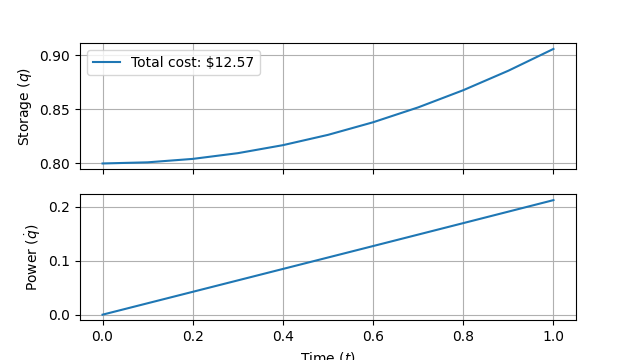
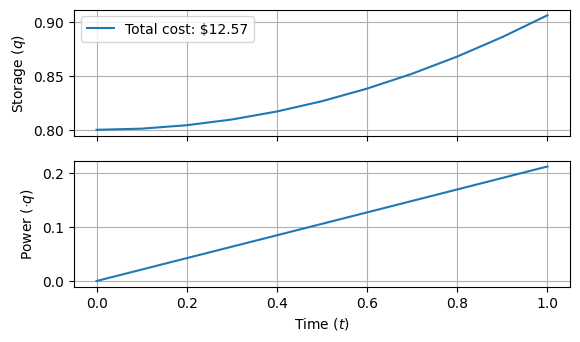
plot tight figure

diff --git a/case_study/table_3.py b/case_study/table_3.py
@@ -38,4 +38,4 @@ with open('table_3.tex','wt') as tex:
     print("\\\\ \\hline",file=tex)
     print("\\end{tabular}",file=tex)
 
-Dispatch(T=1,a=a_case,c=c,Q0=Q0,dQ0=0,QT=QT,dQT=dQT,S=S).plot().savefig("case.png")
+Dispatch(T=1,a=a_case,c=c,Q0=Q0,dQ0=0,QT=QT,dQT=dQT,S=S).plot().savefig("case.png", bbox_inches='tight')
